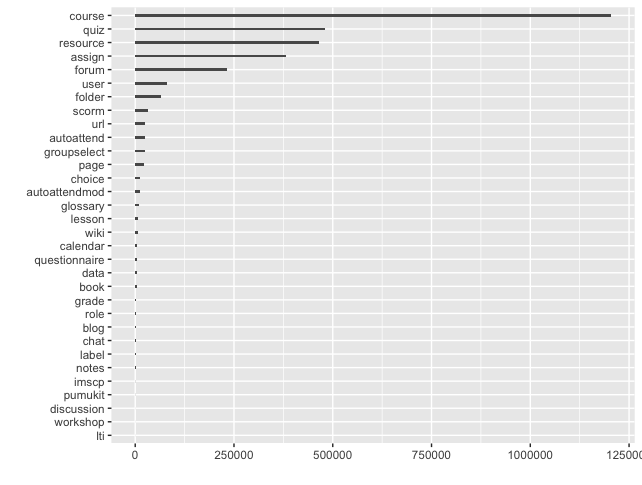
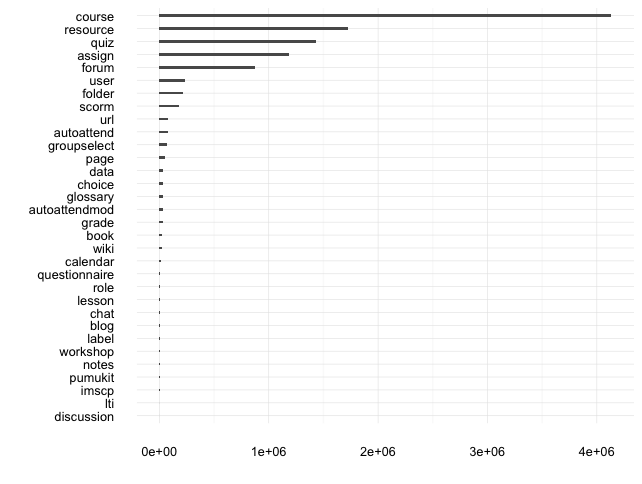
fix r

diff --git a/text/chapters/04_Resultados.tex b/text/chapters/04_Resultados.tex
@@ -270,122 +270,88 @@ Esta pregunta al ser de entrada libre se adjuntará en el anexo VI
 
 \section{Análisis de registros propios de la plataforma}
 
-Tras analizar los registros proporcionados por el CEVUG de los años 2015 y 2016 vemos que los resultados de la encuesta cuadran con los mismos.
+Tras analizar los registros proporcionados por el CEVUG de los años 2015 y 2016 vemos que los resultados de la encuesta cuadran con los mismos. Hay que tener en cuenta que solo se tienen registros hasta el 31 de Diciembre de 2016, por lo que los datos del curso 2016/2017 seguramente se duplicarán.
 
-\ref{fig:distintonumerousuarios_2015}.
+\ref{fig:distintonumerousuarios}.
 
-Lo primero a destacar son el notable incremento de peticiones del año 2015 al año 2016 que se puede apreciar en la tabla de la figura \ref{table:sumarioregistros}.
+Lo primero a destacar son el incremento de peticiones del año 2015 al año 2016 que se puede apreciar en la tabla de la figura \ref{table:sumarioregistros}, seguramente debido a la campaña de aviso de cambio de plataforma por parte del CEVUG en 2015.
 
 \begin{table}[H]
 \centering
 \begin{tabular}{|l|r|r|}
 \hline
-\textbf{Año}        & \textbf{2015}	& \textbf{2016} 		\\ \hline
-Número de registros & 3.119.094     	& 20.243.312			\\ \hline
-Usuarios únicos     & 19.448        & 51.283				\\ \hline
-IPs distintas       & 115.349       & 370.580			\\ \hline
-Cursos              & 1.266         & 8.414				\\ \hline
-Módulos             & 32            & 32					\\ \hline
+\textbf{Curso}        & \textbf{2015/2016}	& \textbf{2016/2017}\\ \hline
+Número de registros & 10.547.684     		& 12.312.086			\\ \hline
+Usuarios únicos     & 31.543        			& 44.335				\\ \hline
+IPs distintas       & 250.389       			& 244.837			\\ \hline
+Cursos              & 2.134         			& 8.128				\\ \hline
+Módulos             & 32            			& 32					\\ \hline
 \end{tabular}
-\caption{Sumario de los registros de los años 2015 y 2016}
+\caption{Sumario de los registros de los cursos 2015/2016 y 2016/2017}
 \label{table:sumarioregistros}
 \end{table}
 
-En las figuras de la \ref{fig:actividadtotal_2015} a la \ref{fig:frecuenciausuarios_2016} podemos ver como el grueso de la actividad se lo llevan unos pocos usuarios, es decir, la inmensa mayoría interactúa muy poco con la plataforma. Presuponemos que este grueso de actividad pertenece tanto a los administradores como a un reducido círculo de profesores, hay que tener en cuenta que los logs registran cada click en alguna sección de Prado.
+
+En las figuras de la \ref{fig:actividadtotal} a la \ref{fig:frecuenciausuarios} podemos ver como el grueso de la actividad se lo llevan unos pocos usuarios, es decir, la inmensa mayoría interactúa muy poco con la plataforma. Presuponemos que este grueso de actividad pertenece tanto a los administradores como a un reducido círculo de profesores, hay que tener en cuenta que los logs registran cada click en alguna sección de Prado.
 
 \begin{figure}[H]
 \centering
-\includegraphics[width=0.9\textwidth]{../r/actividadtotal_2015}
-\caption{Actividad total en 2015}
-\label{fig:actividadtotal_2015}
+\includegraphics[width=0.9\textwidth]{../r/actividadtotal}
+\caption{Actividad total durante los cursos 2015/2016 y 2016/2017}
+\label{fig:actividadtotal}
 \end{figure}
 
 \begin{figure}[H]
 \centering
-\includegraphics[width=0.9\textwidth]{../r/actividadtotal_2016}
-\caption{Actividad total en 2016}
-\label{fig:actividadtotal_2016}
-\end{figure}
-
-\begin{figure}[H]
-\centering
-\includegraphics[width=0.9\textwidth]{../r/frecuenciaactividadusuario_2015}
-\caption{Frecuencia de actividad de los usuarios en 2015}
-\label{fig:frecuenciaactividadusuario_2015}
-\end{figure}
-
-\begin{figure}[H]
-\centering
-\includegraphics[width=0.9\textwidth]{../r/frecuenciaactividadusuario_2016}
-\caption{Frecuencia de actividad de los usuarios en 2016}
-\label{fig:frecuenciaactividadusuario_2016}
+\includegraphics[width=0.9\textwidth]{../r/frecuenciaactividadusuario}
+\caption{Frecuencia de actividad de los usuarios durante los cursos 2015/2016 y 2016/2017}
+\label{fig:frecuenciaactividadusuario}
 \end{figure}
 
 
 \begin{figure}[H]
 \centering
-\includegraphics[width=0.9\textwidth]{../r/frecuenciausuarios_2015}
-\caption{Frecuencia de usuarios en 2015}
-\label{fig:frecuenciausuarios_2015}
+\includegraphics[width=0.9\textwidth]{../r/frecuenciausuarios}
+\caption{Frecuencia de usuarios durante los cursos 2015/2016 y 2016/2017}
+\label{fig:frecuenciausuarios}
 \end{figure}
 
 
-\begin{figure}[H]
-\centering
-\includegraphics[width=0.9\textwidth]{../r/frecuenciausuarios_2016}
-\caption{Frecuencia de usuarios en 2016}
-\label{fig:frecuenciausuarios_2016}
-\end{figure}
-
-También vemos en las figuras \ref{fig:distintonumerousuarios_2015} y \ref{fig:distintonumerousuarios_2016} como los usuarios comenzaron a hacer uso de la plataforma en Septiembre de 2015 que es cuando oficialmente se comenzó a utilizar Prado.
+También vemos en la figura \ref{fig:distintonumerousuarios} cómo los usuarios comenzaron a hacer un uso intensivo de la plataforma al iniciar el curso 2015/2016, que es cuando oficialmente se comenzó a utilizar Prado. También vemos, como en los casos anteriores, que el uso de la plataforma se incrementó en el curso 2016/2017 debido a la campaña de información sobre el cambio de plataforma.
 
 
 
 \begin{figure}[H]
 \centering
-\includegraphics[width=0.9\textwidth]{../r/distintonumerousuarios_2015}
-\caption{Interacciones de usuarios únicos en 2015}
-\label{fig:distintonumerousuarios_2015}
+\includegraphics[width=1.1\textwidth]{../r/distintonumerousuarios}
+\caption{Interacciones de usuarios únicos durante los cursos 2015/2016 y 2016/2017}
+\label{fig:distintonumerousuarios}
 \end{figure}
+
+
+
+En la figura \ref{fig:frecuenciaactividaddiaria} se percibe como la mayoría de los usuarios utilizan la plataforma en las horas lectivas, descenciendo la utilización como es evidente los fines de semana, también nos sirve para ver como la madrugada es la hora ideal para realizar cambios en la plataforma pues el a esas horas casi no hay usuarios usando Prado.
 
 \begin{figure}[H]
 \centering
-\includegraphics[width=0.9\textwidth]{../r/distintonumerousuarios_2016}
-\caption{Interacciones de usuarios únicos en 2016}
-\label{fig:distintonumerousuarios_2016}
+\includegraphics[width=0.9\textwidth]{../r/frecuenciaactividaddiaria}
+\caption{Frecuencia de actividad diaria durante los cursos 2015/2016 y 2016/2017}
+\label{fig:frecuenciaactividaddiaria}
 \end{figure}
-
-
-En las figuras \ref{fig:frecuenciaactividaddiaria_2015} y \ref{fig:frecuenciaactividaddiaria_2016} se percibe como la mayoría de los usuarios utilizan la plataforma en las horas lectivas, descenciendo la utilización como es evidente los fines de semana, también nos sirve para ver como la madrugada es la hora ideal para realizar cambios en la plataforma pues el a esas horas casi no hay usuarios usando Prado.
-
-\begin{figure}[H]
-\centering
-\includegraphics[width=0.9\textwidth]{../r/frecuenciaactividaddiaria_2015}
-\caption{Frecuencia de actividad diaria en 2015}
-\label{fig:frecuenciaactividaddiaria_2015}
-\end{figure}
-
-\begin{figure}[H]
-\centering
-\includegraphics[width=0.9\textwidth]{../r/frecuenciaactividaddiaria_2016}
-\caption{Frecuencia de actividad diaria en 2016}
-\label{fig:frecuenciaactividaddiaria_2016}
-\end{figure}
-
 
 En cuanto a las actividades podemos ver en las figuras \ref{fig:usoactividades_2015} y \ref{fig:usoactividades_2016} así como en la tabla \ref{table:usoactividades_2015} que tal y como concluimos en la encuesta la gran mayoría de las actividades disponibles en moodle no tienen apenas uso. Hay que destacar que la actividad 'course' se refiere a cada vez que un usuario ve contenido de un curso acaparando la mitad de las interacciones, la actividad 'user' se crea cada vez que se ve el perfil de un usuario o profesor y la actividad 'assign' es para uso interno de moodle. Exceptuando estos tres casos vemos como las mas usados los cuestionarios y los archivos.
 
 \begin{figure}[H]
 \centering
 \includegraphics[width=0.9\textwidth]{../r/usoactividades_2015}
-\caption{Uso de actividades en 2015}
+\caption{Uso de actividades en el curso 2015/2016}
 \label{fig:usoactividades_2015}
 \end{figure}
 
 \begin{figure}[H]
 \centering
 \includegraphics[width=0.9\textwidth]{../r/usoactividades_2016}
-\caption{Uso de actividades en 2016}
+\caption{Uso de actividades en el curso 2016/2017}
 \label{fig:usoactividades_2016}
 \end{figure}
 
@@ -393,41 +359,41 @@ En cuanto a las actividades podemos ver en las figuras \ref{fig:usoactividades_2
 \centering
 \begin{tabular}{|l|r|r|}
 \hline
-\textbf{Módulo} & \textbf{2015} & \textbf{2016} \\ \hline
-course          & 1204043       & 8631749       \\ \hline
-quiz            & 480975        & 1967505       \\ \hline
-resource        & 464898        & 3680181       \\ \hline
-assign          & 381096        & 1985887       \\ \hline
-forum           & 233528        & 1905834       \\ \hline
-user            & 81118         & 473303        \\ \hline
-folder          & 65733         & 499643        \\ \hline
-scorm           & 33459         & 205890        \\ \hline
-url             & 25720         & 139415        \\ \hline
-autoattend      & 25530         & 112115        \\ \hline
-groupselect     & 25518         & 132941        \\ \hline
-page            & 22382         & 79816         \\ \hline
-choice          & 11514         & 58419         \\ \hline
-autoattendmod   & 11020         & 47220         \\ \hline
-glossary        & 9244          & 50541         \\ \hline
-lesson          & 6702          & 14140         \\ \hline
-wiki            & 6040          & 26199         \\ \hline
-calendar        & 4988          & 23273         \\ \hline
-questionnaire   & 4961          & 13241         \\ \hline
-data            & 4525          & 51868         \\ \hline
-book            & 4485          & 31140         \\ \hline
-grade           & 2809          & 46357         \\ \hline
-role            & 2306          & 16770         \\ \hline
-blog            & 1665          & 4616          \\ \hline
-chat            & 1351          & 7267          \\ \hline
-label           & 1282          & 7014          \\ \hline
-notes           & 1174          & 3362          \\ \hline
-imscp           & 396           & 2789          \\ \hline
-pumukit         & 305           & 4717          \\ \hline
-discussion      & 118           & 344           \\ \hline
-workshop        & 117           & 18395         \\ \hline
-lti             & 92            & 1357          \\ \hline
+\textbf{Módulo} & \textbf{2015/2016} & \textbf{2016/2017} \\ \hline
+course        & 4.133.556 & 5.476.579 \\
+resource      & 1.722.786 & 2.312.141 \\
+quiz          & 1.435.269 & 996.768   \\
+assign        & 1.187.420 & 1.136.587 \\
+forum         & 876.838   & 1.198.559 \\
+user          & 236.832   & 300.608   \\
+folder        & 217.559   & 338.618   \\
+scorm         & 182.518   & 52.601    \\
+url           & 83.283    & 79.264    \\
+autoattend    & 74.382    & 63.078    \\
+groupselect   & 71.789    & 86.586    \\
+page          & 52.458    & 48.263    \\
+data          & 36.921    & 19.405    \\
+choice        & 36.191    & 33.695    \\
+glossary      & 31.520    & 27.870    \\
+autoattendmod & 31.186    & 26.868    \\
+grade         & 29.105    & 15.456    \\
+book          & 26.769    & 7.202     \\
+wiki          & 20.736    & 11.347    \\
+calendar      & 13.537    & 14.390    \\
+questionnaire & 9.949     & 8.208     \\
+role          & 7.481     & 11.422    \\
+lesson        & 7.008     & 13.692    \\
+chat          & 5.095     & 3.475     \\
+blog          & 4.265     & 1.855     \\
+label         & 3.471     & 4.604     \\
+workshop      & 3.102     & 15.184    \\
+notes         & 3.023     & 1.348     \\
+pumukit       & 1.713     & 3.280     \\
+imscp         & 1.161     & 1.995     \\
+lti           & 558       & 883       \\
+discussion    & 203       & 255      
 \end{tabular}
-\caption{Tabla detallada del uso de actividades en 2015 y 2016}
+\caption{Tabla detallada del uso de actividades en los cursos 2015/2016 y 2016/2017}
 \label{table:usoactividades_2015}
 \end{table}
 

diff --git a/text/chapters/06_Anexos.tex b/text/chapters/06_Anexos.tex
@@ -551,6 +551,18 @@ mdl_log$dts_hour <- as.POSIXct(mdl_log$dts_hour)
 
 #mdl_2015 <- subset(mdl_log, year == 2015)
 
+mdl_2015 <- subset(mdl_log, TIME > 1441058400 & TIME < 1467324000)
+
+mdl_2016 <- subset(mdl_log, TIME > 1441058400 & TIME < 1467324000)
+
+mdl_todo <- subset(mdl_log, TIME > 1441058400 & TIME < 1467324000)
+
+
+#d <- tbl_df(mdl_log)
+d <- tbl_df(mdl_2015)
+d <- tbl_df(mdl_2016)
+d <- tbl_df(mdl_todo)
+
 d <- tbl_df(mdl_log)
 #d %>% mutate(time = as.POSIXct(time))
 #d %>% mutate(TIME = as.POSIXct(time))
